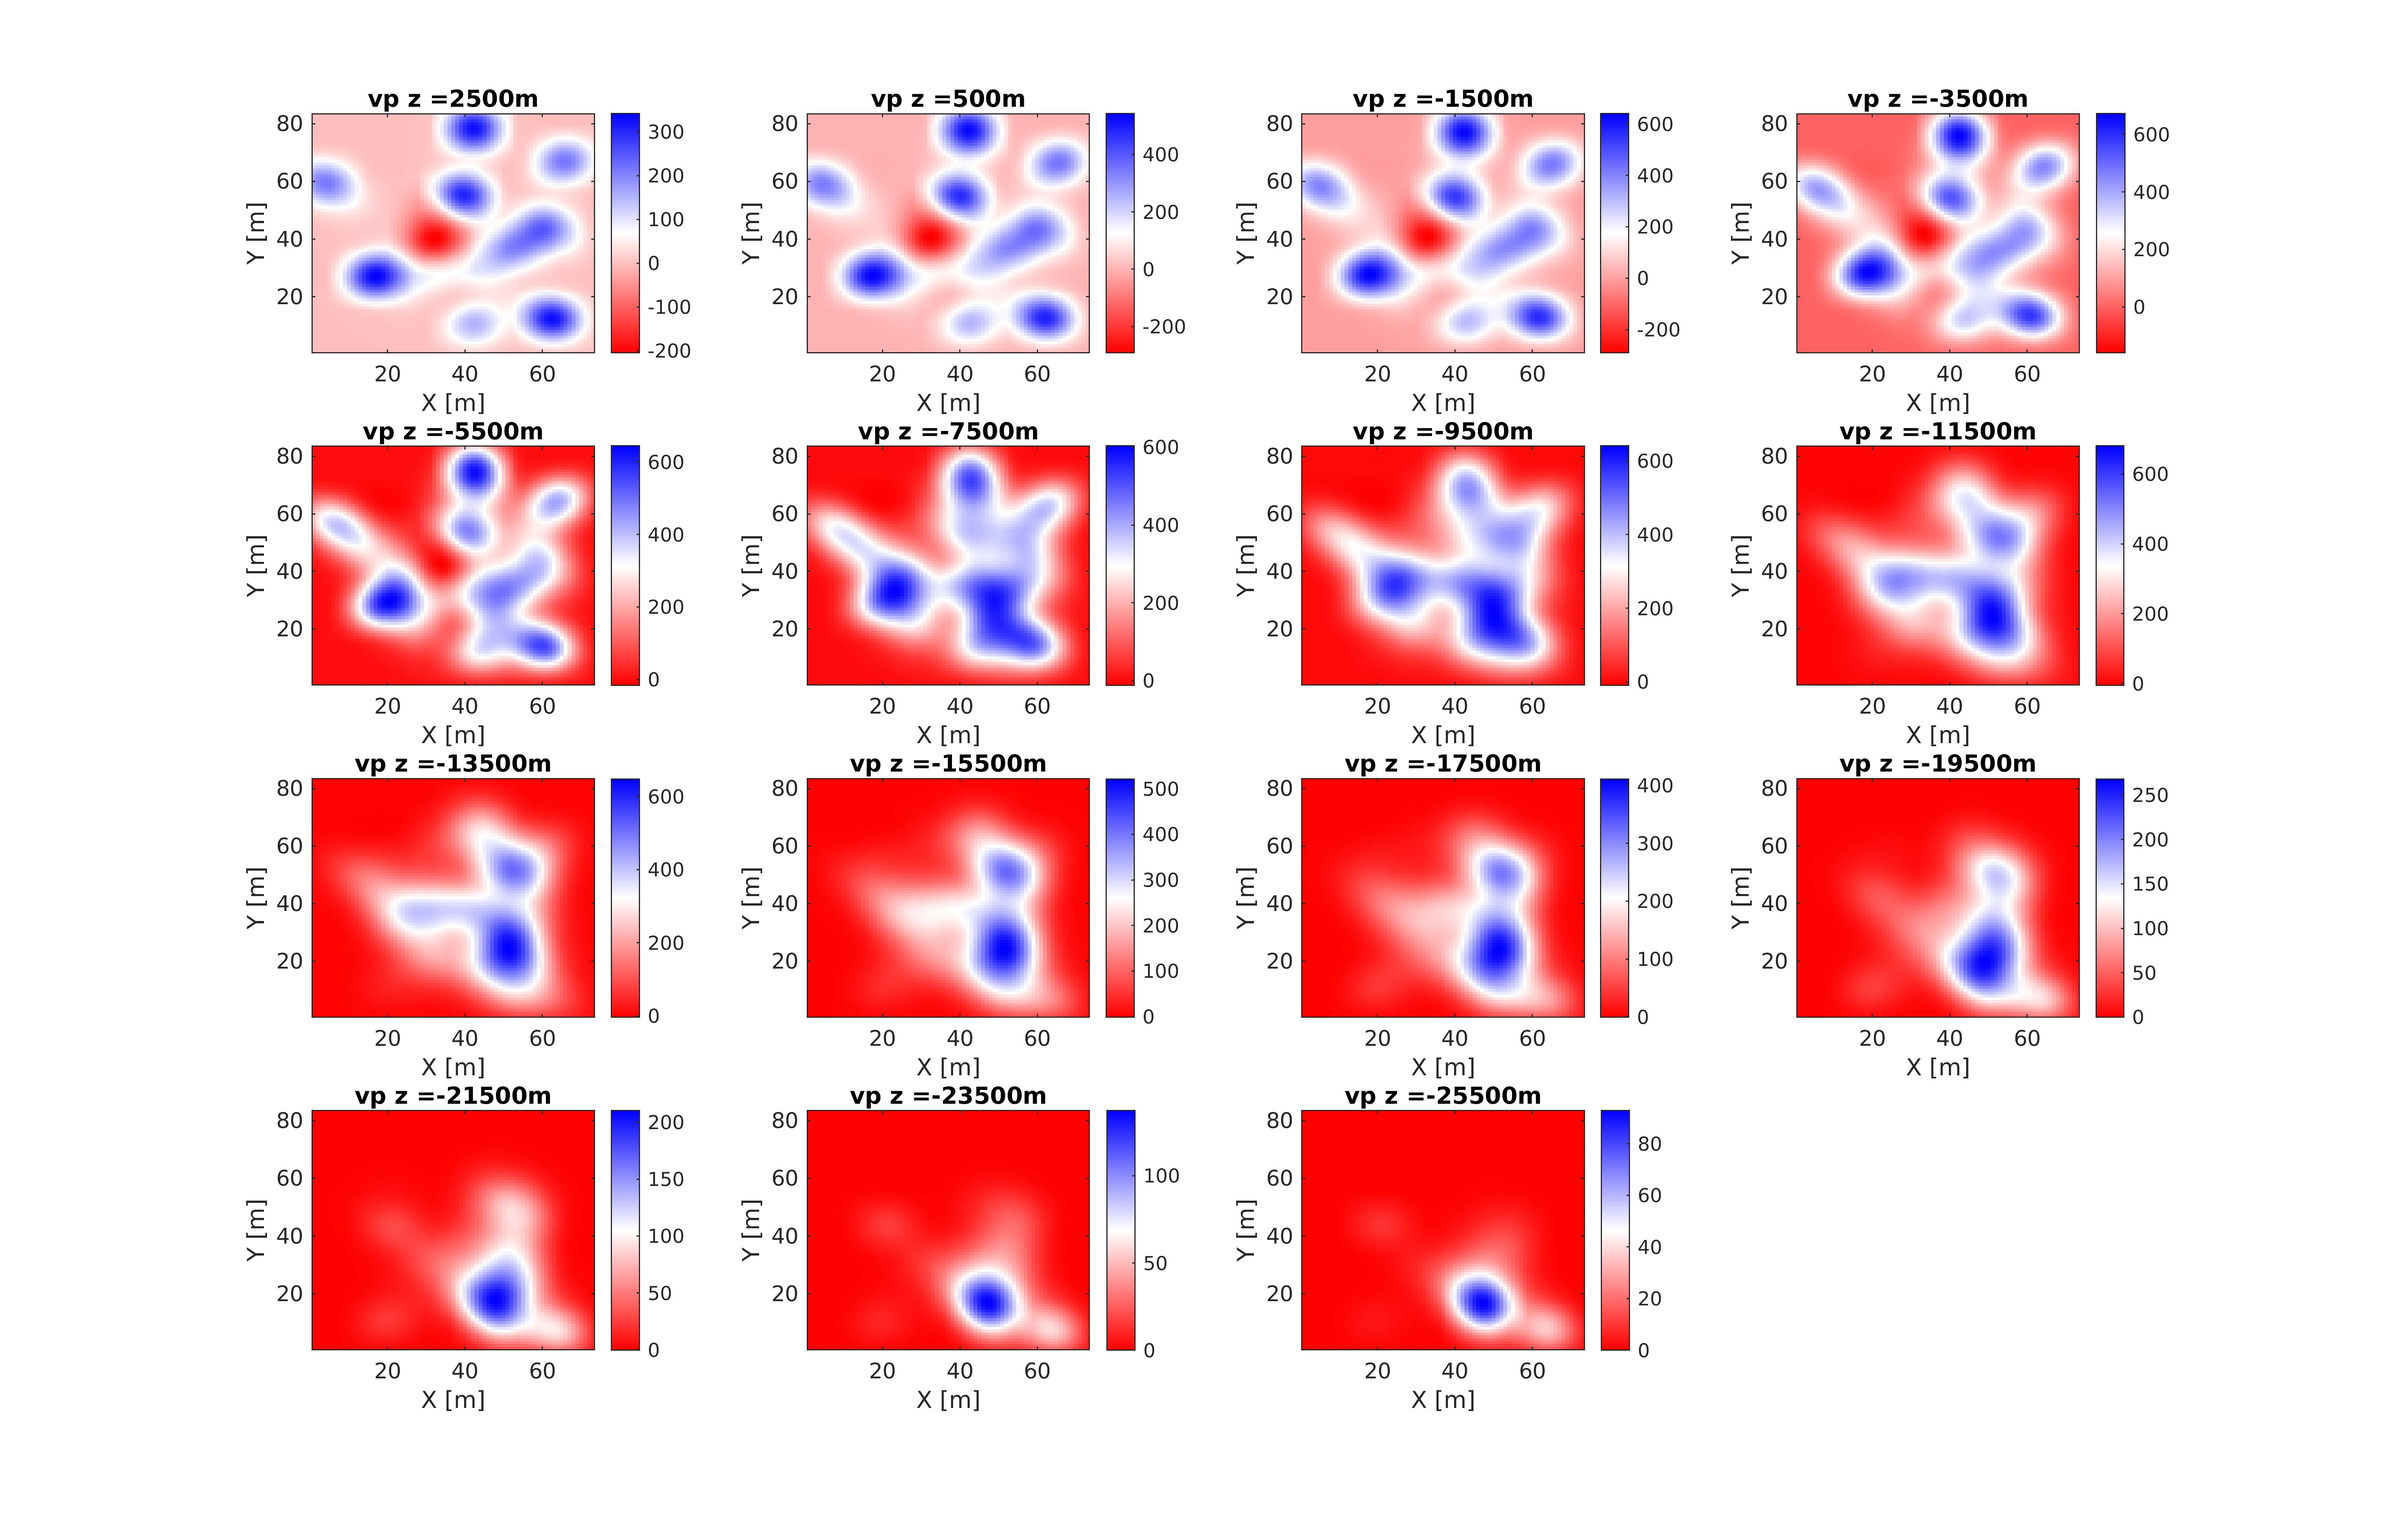
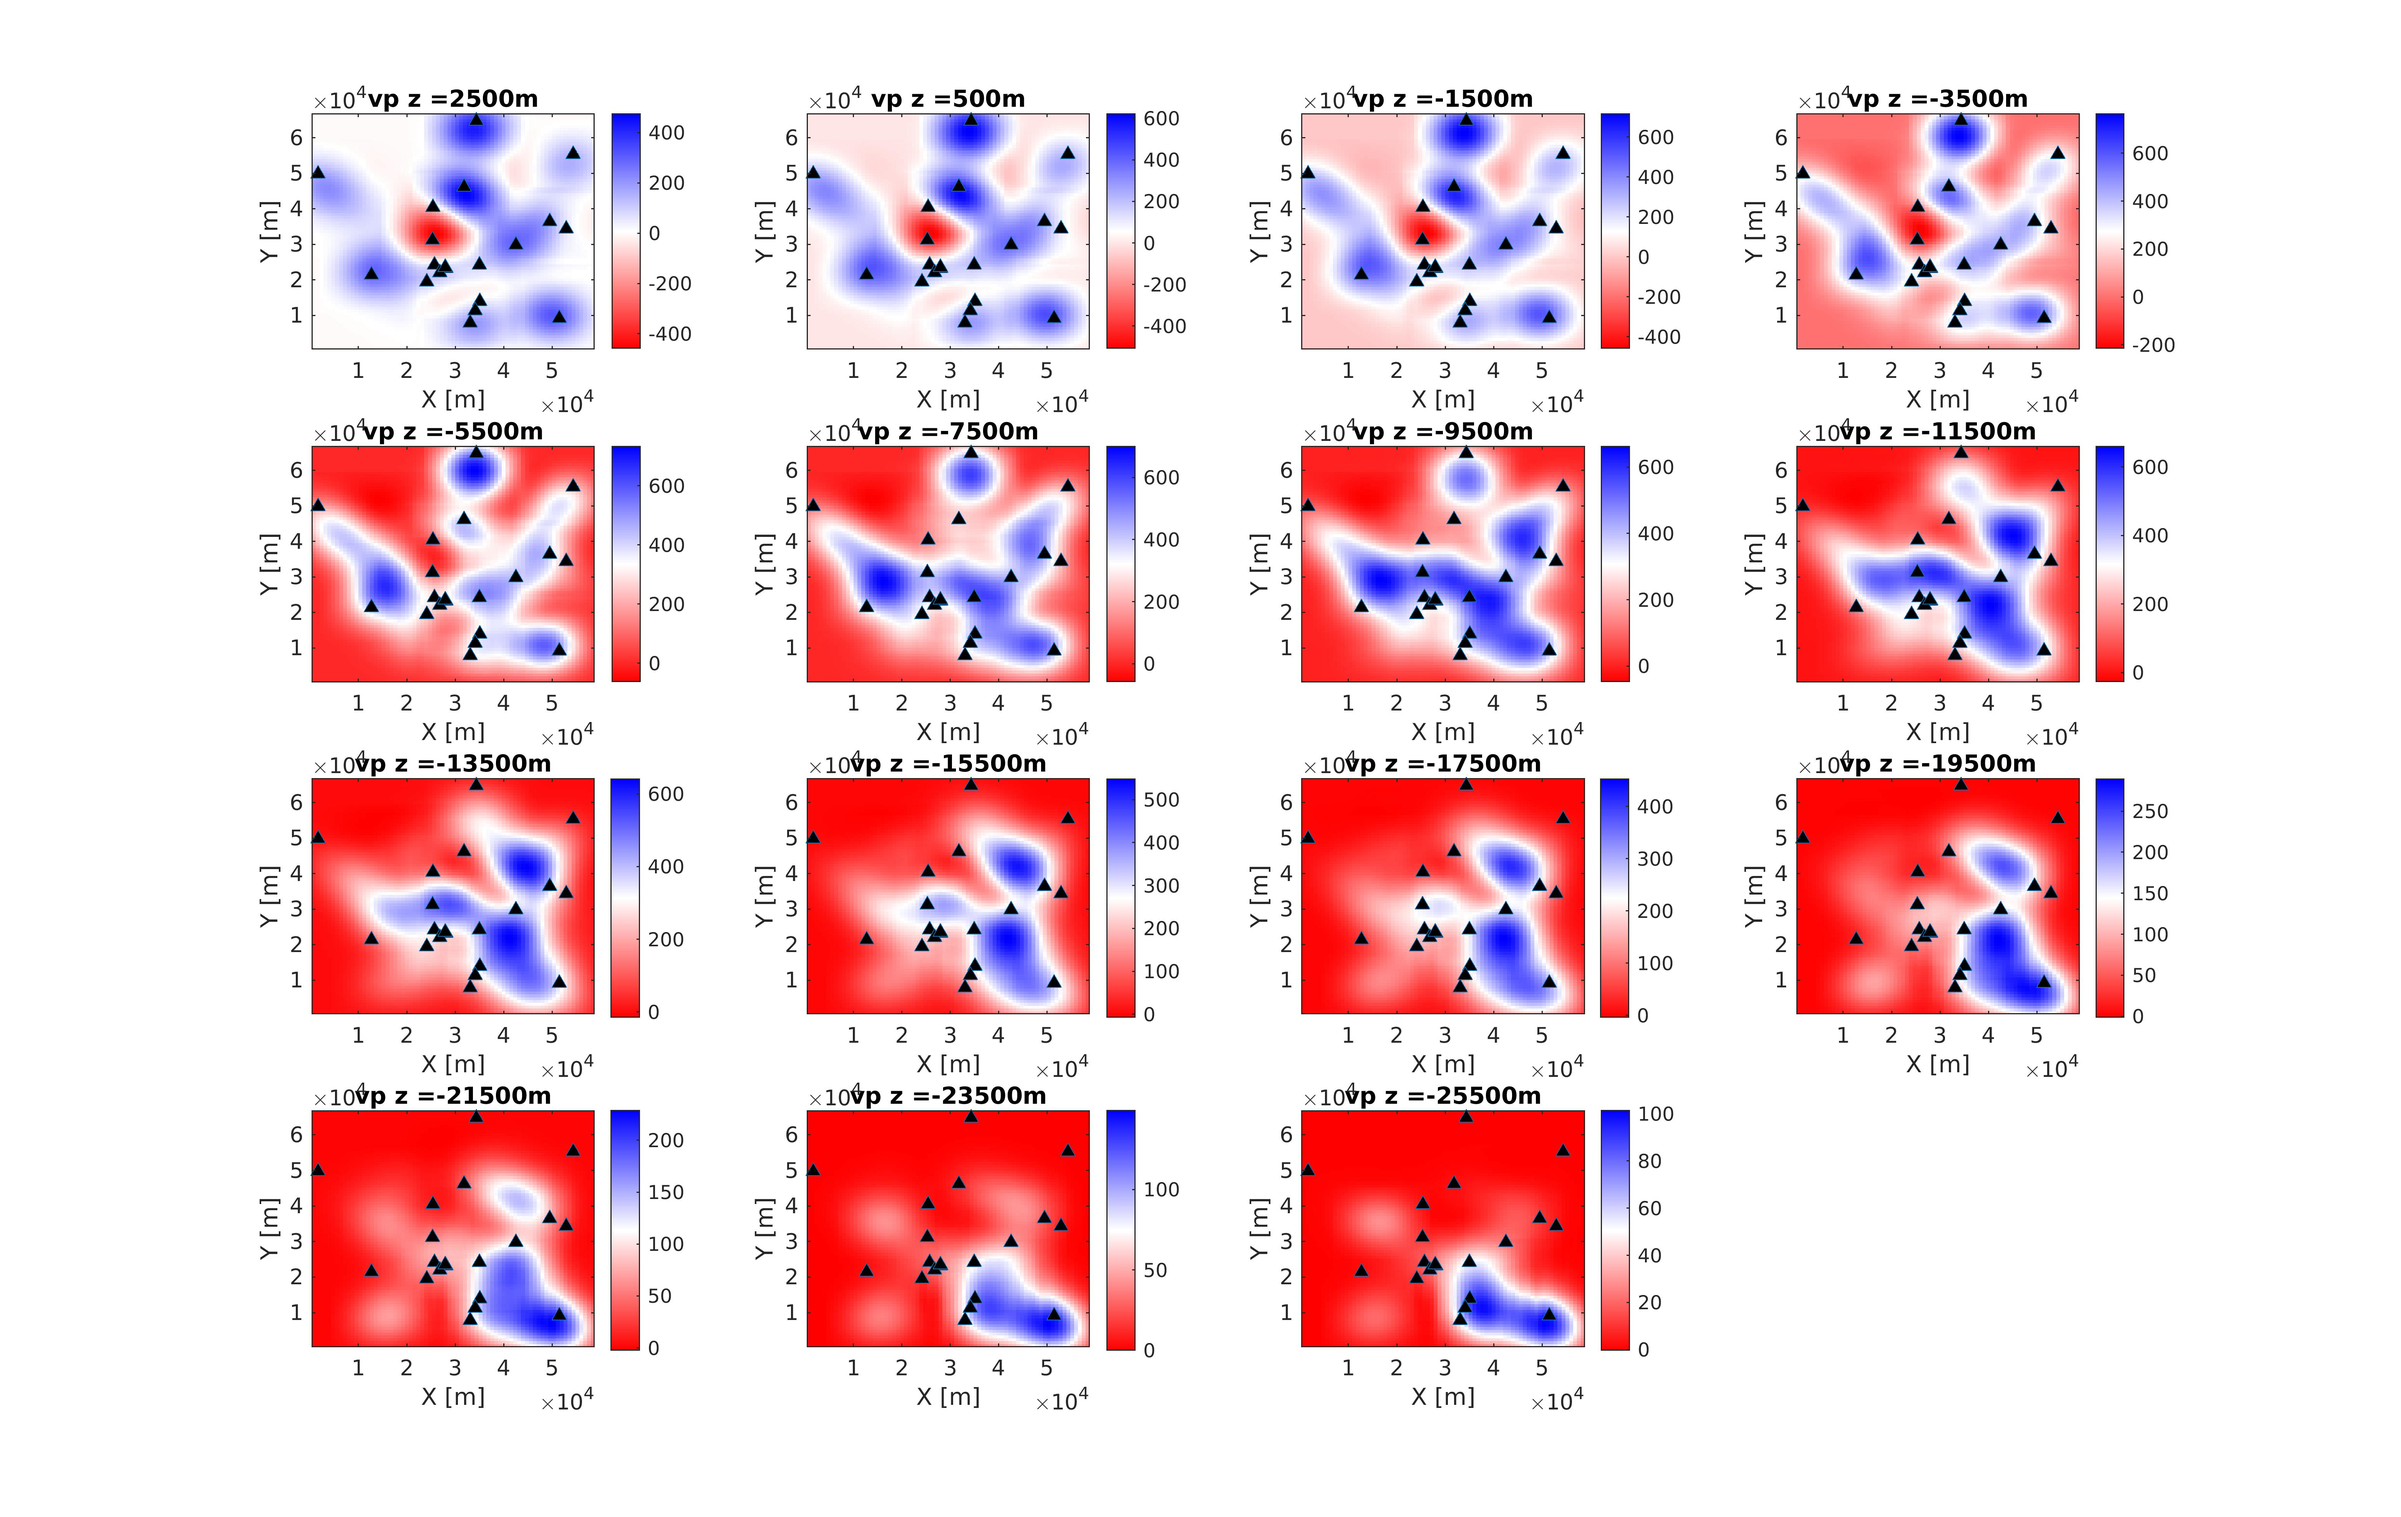
9

diff --git a/example/tutorial_alternating_inversion_Crati/create_figure4.m b/example/tutorial_alternating_inversion_Crati/create_figure4.m
@@ -7,8 +7,9 @@ X=tt.data.X;
 Y=tt.data.Y;
 Z=tt.data.Z;
 h=X(2)-X(1);
-tt=load('./inversion_process_lbfgs_P/final/final_model.mat');
-vs=tt.data.v;
+%tt=load('./inversion_process_lbfgs_S/final/final_model.mat');
+%vs=tt.data.v;
+vs=3000*ones(size(vp));
 
 vp_vs=vp./vs;
 tt=load(['../tutorial_alternating_checkerboard_Crati/' ...
@@ -243,7 +244,9 @@ for i=1:length(z)
     subplot(a,a,i)
     imAlpha=ones(size(vp(:,:,tt)'));
     imAlpha(isnan(vp(:,:,tt)'))=0;
-    imagesc(vp(:,:,tt)'-vp0(:,:,tt)','AlphaData',imAlpha);
+    imagesc([min(X(:)),max(X(:))], ...
+        [min(Y(:)),max(Y(:))], ...
+        vp(:,:,tt)'-vp0(:,:,tt)','AlphaData',imAlpha);
     set(gca,'color',1*[1 1 1]);
     set(gca,'ydir','normal');
     title({['vp z =' num2str(z(i)) 'm']});
@@ -408,3 +411,33 @@ for i=1:length(y)
     %plot(receiver(:,1),receiver(:,2),'^','MarkerFaceColor','black');
 end
 print(gcf,['./vs_xz'],'-djpeg','-r400');
+%% vp/vs
+z=5000:-2000:-18000;
+a=ceil(sqrt(length(z)));
+
+figure;
+set(gcf,'position',[80,80,1500,1500]);
+
+%limps=[1.5,2.1];
+for i=1:length(z)
+    tt=find(abs(Z(1,1,:)-z(i))==min(abs(Z(1,1,:)-z(i))));
+    tt=tt(1);
+    j=1;
+    subplot(a,a,i)
+    imAlpha=ones(size(vp_vs(:,:,tt)'));
+    imAlpha(isnan(vp_vs(:,:,tt)'))=0;
+    imagesc([min(X(:)),max(X(:))], ...
+        [min(Y(:)),max(Y(:))], ...
+        vp_vs(:,:,tt)','AlphaData',imAlpha);
+    set(gca,'color',1*[1 1 1]);
+    set(gca,'ydir','normal');
+    title({['vp_vs z =' num2str(z(i)) 'm']});
+    
+    xlabel('X [m]');
+    ylabel('Y [m]');
+    %caxis(limp);
+    colormap(redblue2);
+    colorbar;
+    hold on;
+    plot(receiver(:,1),receiver(:,2),'^','MarkerFaceColor','black');
+end
